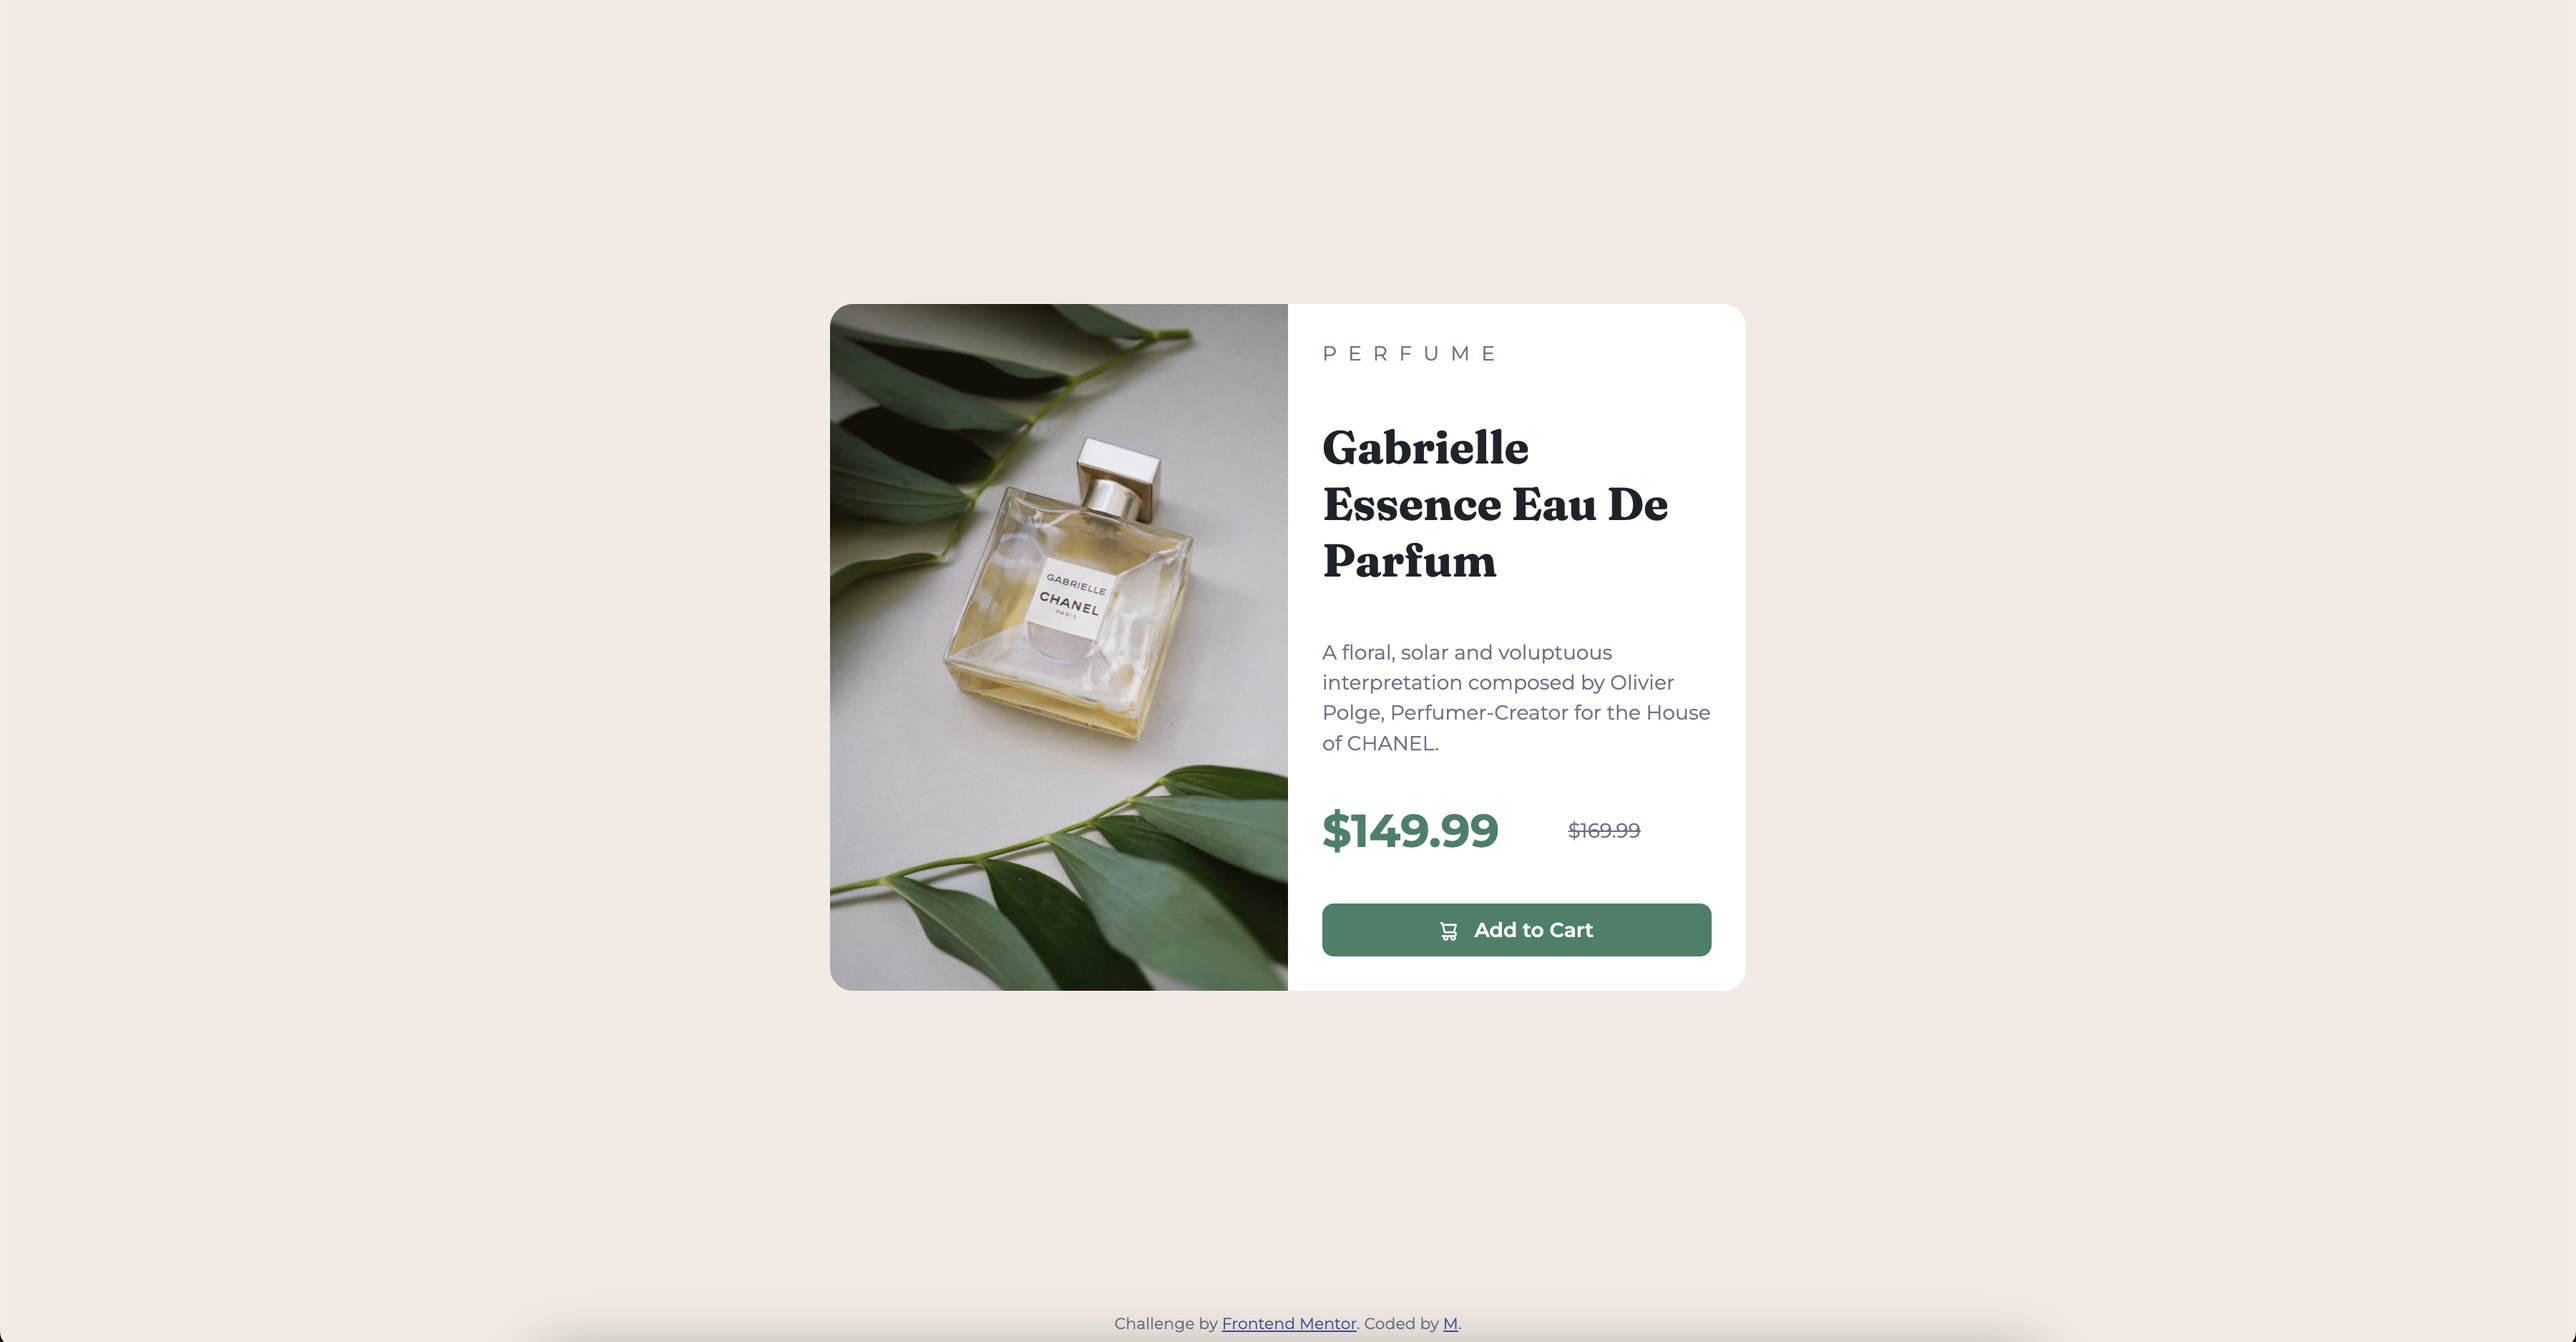
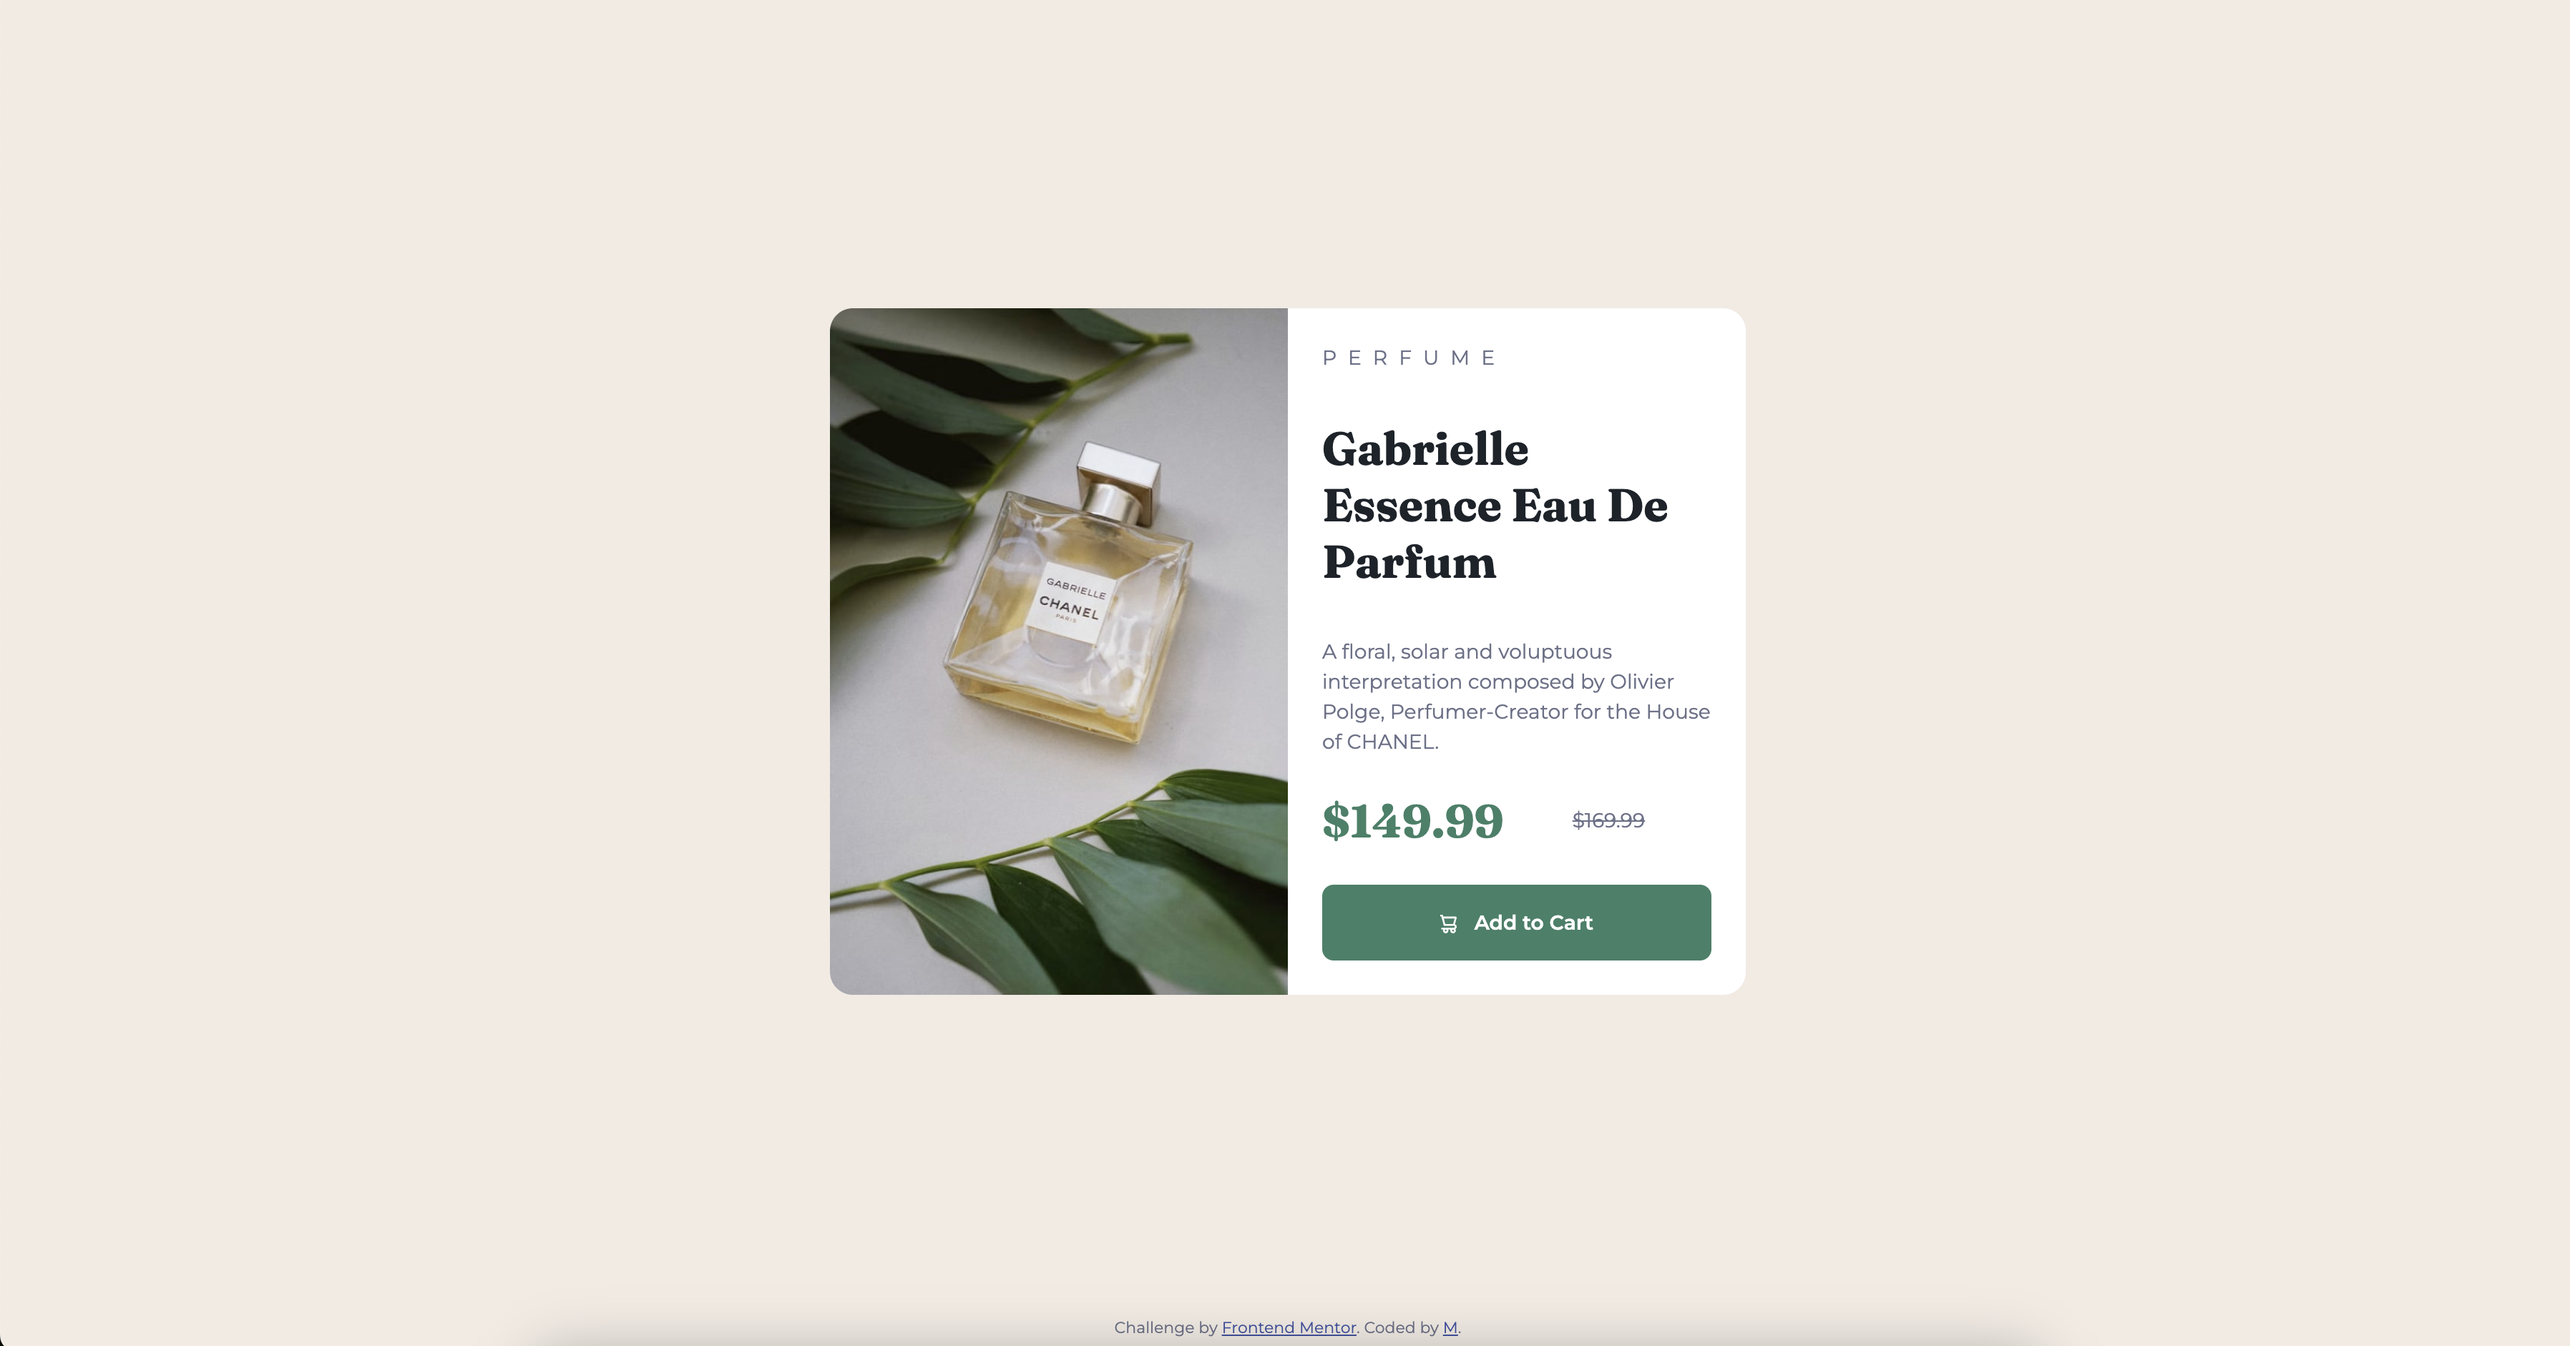
Change price font

diff --git a/index.css b/index.css
@@ -80,8 +80,8 @@ h1 {
 }
 
 .price {
+  font: bold 2rem Fraunces, sans-serif;
   color: var(--dark-cyan);
-  font-size: 2rem;
   font-weight: 700;
 }
 
@@ -91,7 +91,7 @@ h1 {
 
 button {
   width: 100%;
-  padding: 0.5rem 1rem;
+  padding: 1rem;
 
   font: inherit;
   font-weight: 600;
